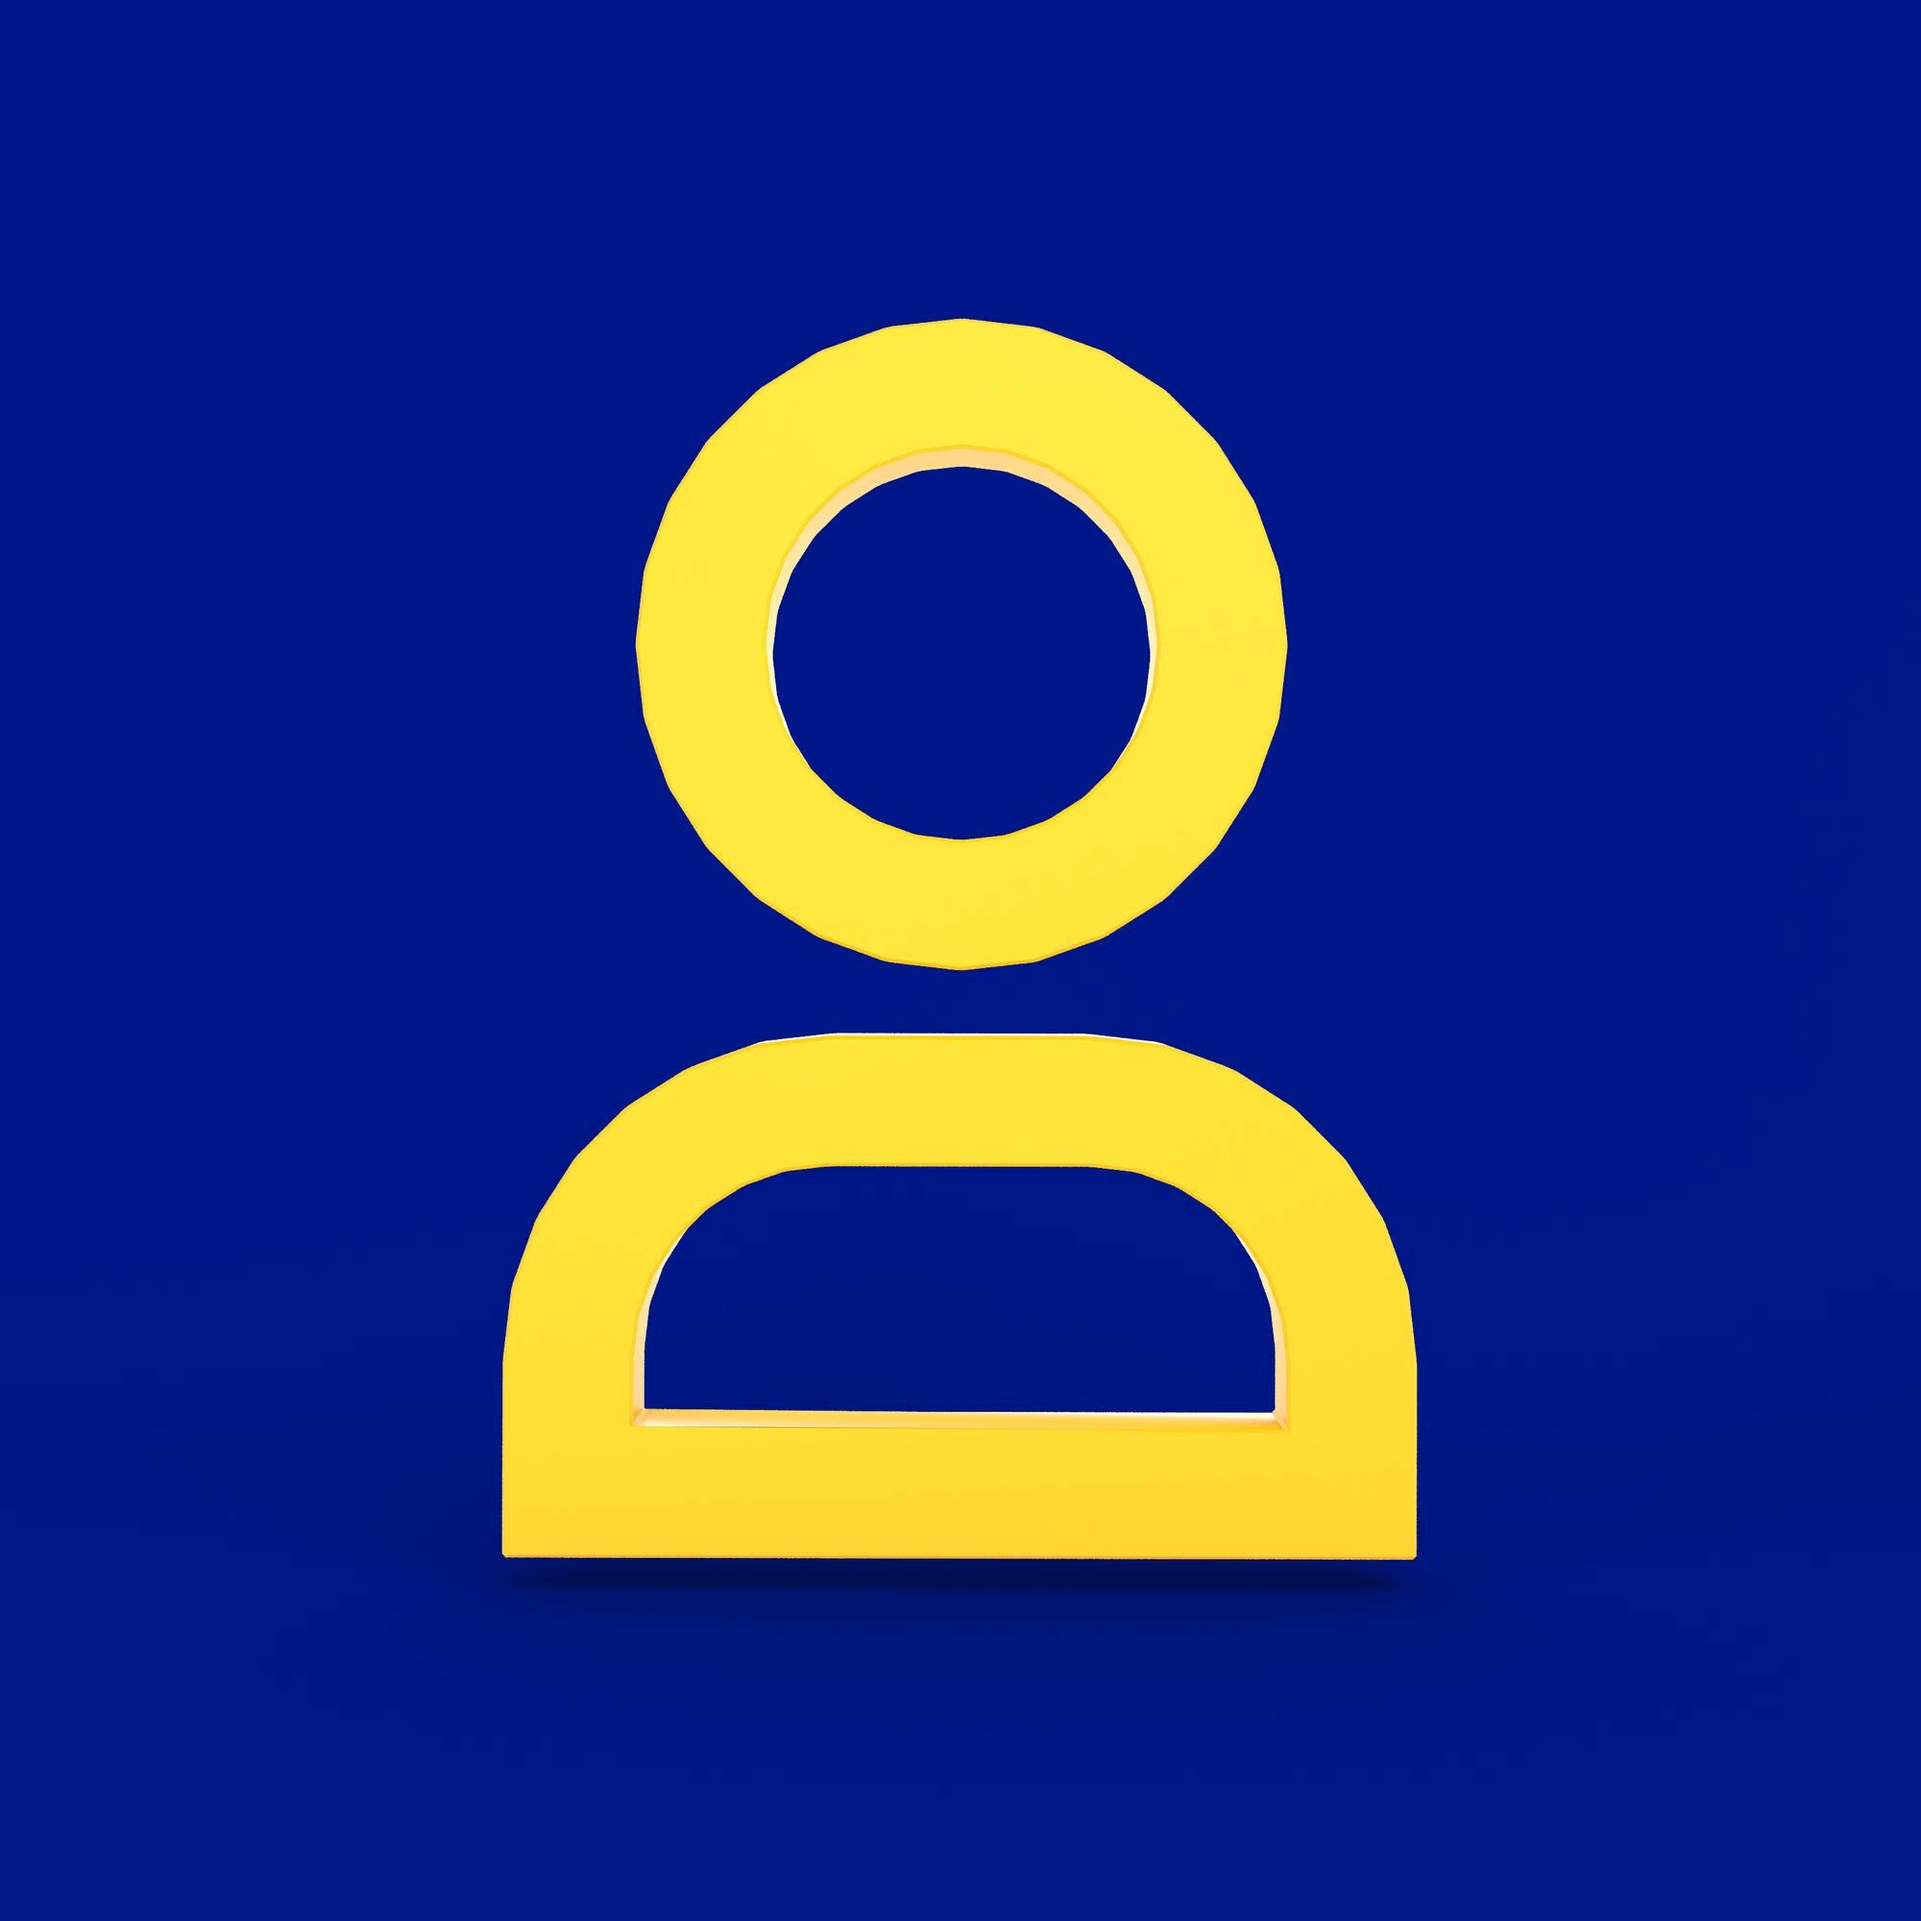
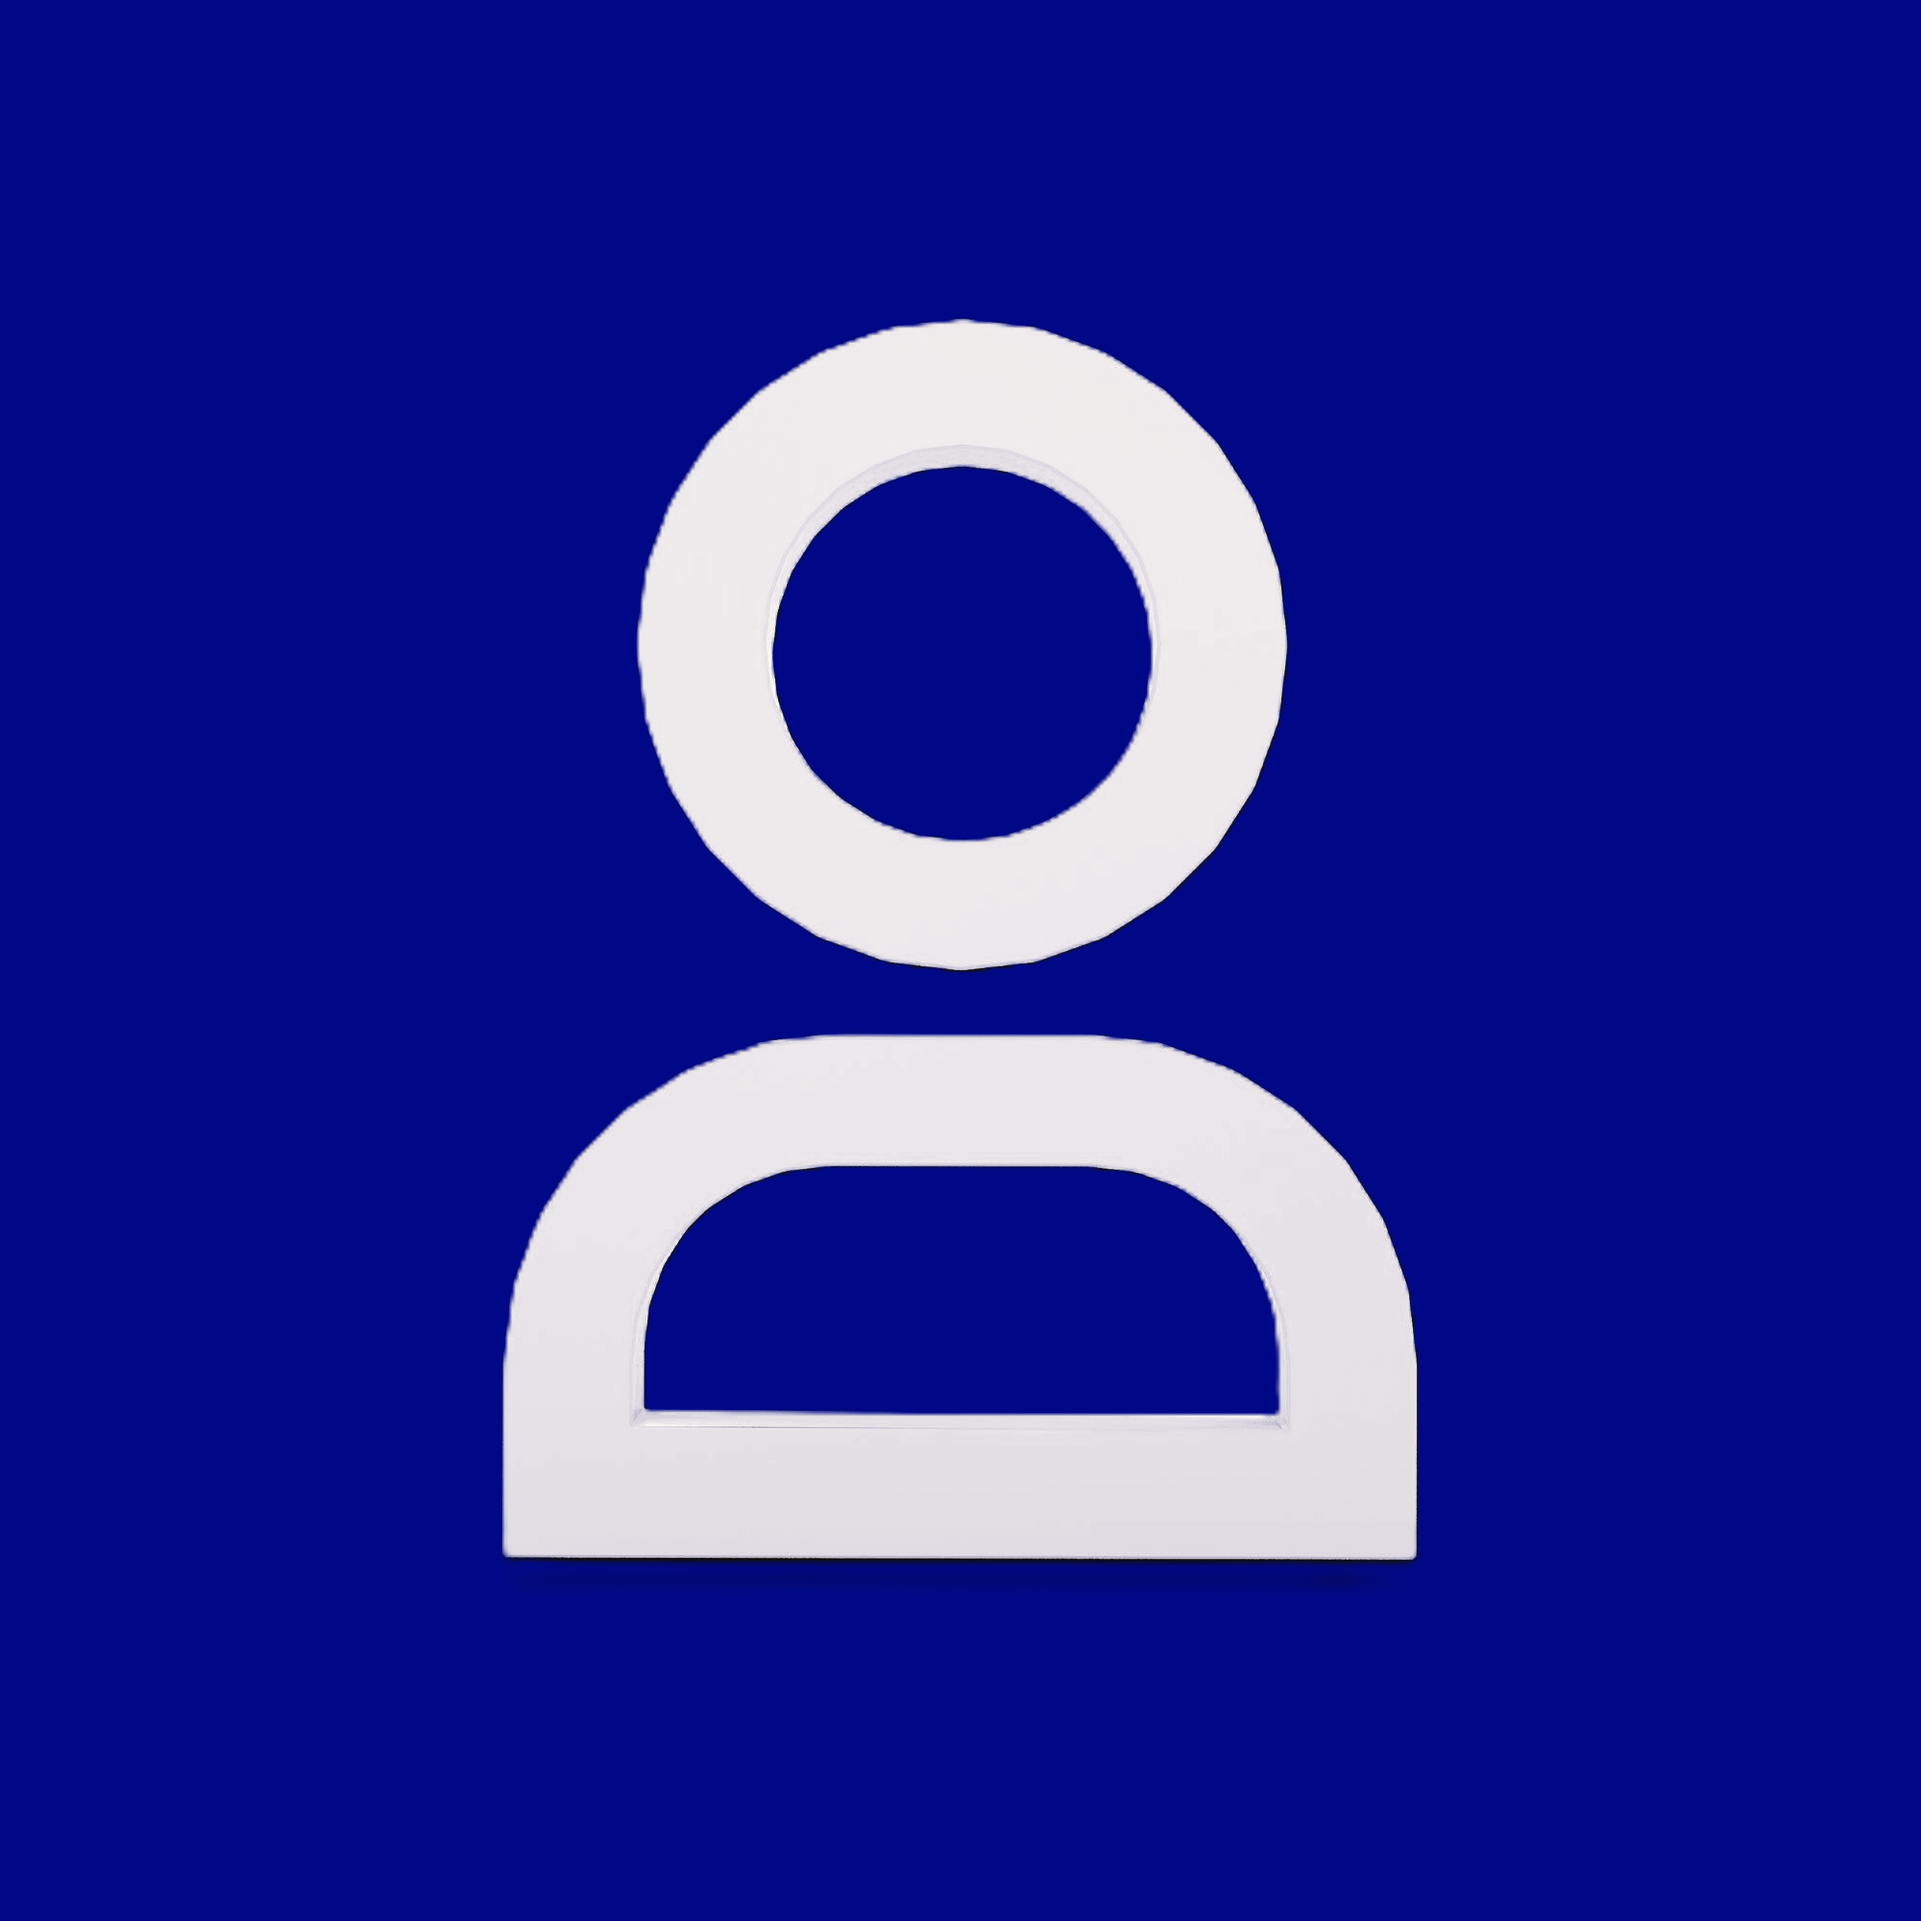
Added CSS styling and html for base html

Changed region(s): [[0.248, 0.155, 0.744, 0.837]]

diff --git a/my_app/templates/base.html b/my_app/templates/base.html
@@ -6,23 +6,25 @@
     <meta name="viewport" content="width=device-width, initial-scale=1.0">
     <title>{% block title %}Freedom Wheels{% endblock %}</title>
     <link href="https://cdn.jsdelivr.net/npm/bootstrap@5.3.3/dist/css/bootstrap.min.css" rel="stylesheet" integrity="sha384-QWTKZyjpPEjISv5WaRU9OFeRpok6YctnYmDr5pNlyT2bRjXh0JMhjY6hW+ALEwIH" crossorigin="anonymous">
+    <link href="https://fonts.googleapis.com/css2?family=Atkinson+Hyperlegible&display=swap" rel="stylesheet">
     <link rel="apple-touch-icon" sizes="180x180" href="{% static 'favicon/apple-touch-icon.png' %}">
     <link rel="icon" type="image/png" sizes="32x32" href="{% static 'favicon/favicon-32x32.png' %}">
     <link rel="icon" type="image/png" sizes="16x16" href="{% static 'favicon/favicon-16x16.png' %}">
+    <link rel="icon" type="image/x-icon" href="{% static 'favicon/favicon.ico' %}">
     <link rel="manifest" href="{% static 'favicon/site.webmanifest' %}">
+    <link rel="stylesheet" href="{% static 'css/styles.css' %}">
     {% block extra_head %}{% endblock %}
 </head>
 <body>
     <nav class="navbar navbar-expand-lg navbar-light bg-light">
-        <a class="navbar-brand" href="#">Freedom Wheels</a>
-        <button class="navbar-toggler" type="button" data-toggle="collapse" data-target="#navbarNavDropdown" aria-controls="navbarNavDropdown" aria-expanded="false" aria-label="Toggle navigation">
+        <a class="navbar-brand" href="#">
+            <img src="{% static 'freedom-wheels-high-resolution-logo(1).png' %}" alt="Freedom Wheels" class="navbar-logo">
+        </a>
+        <button class="navbar-toggler custom-toggler" type="button" data-toggle="collapse" data-target="#navbarNavDropdown" aria-controls="navbarNavDropdown" aria-expanded="false" aria-label="Toggle navigation">
             <span class="navbar-toggler-icon"></span>
         </button>
-        <div class="collapse navbar-collapse" id="navbarNavDropdown">
-            <ul class="navbar-nav ml-auto">
-                <li class="nav-item">
-                    <a class="nav-link" href="{% url 'loginregister' %}">Login/Register</a>
-                </li>
+        <div class="collapse navbar-collapse justify-content-end" id="navbarNavDropdown">
+            <ul class="navbar-nav">
                 <li class="nav-item dropdown">
                     <a class="nav-link dropdown-toggle" href="#" id="navbarDropdownMenuLink" role="button" data-toggle="dropdown" aria-haspopup="true" aria-expanded="false">
                         Menu
@@ -67,5 +69,6 @@
     <script src="https://code.jquery.com/jquery-3.5.1.slim.min.js"></script>
     <script src="https://cdn.jsdelivr.net/npm/@popperjs/core@2.5.4/dist/umd/popper.min.js"></script>
     <script src="https://cdn.jsdelivr.net/npm/bootstrap@5.3.3/dist/js/bootstrap.bundle.min.js" integrity="sha384-YvpcrYf0tY3lHB60NNkmXc5s9fDVZLESaAA55NDzOxhy9GkcIdslK1eN7N6jIeHz" crossorigin="anonymous"></script>
+    {% block extra_js %}{% endblock %}
 </body>
 </html>

diff --git a/static/css/styles.css b/static/css/styles.css
@@ -1,0 +1,52 @@
+body {
+    background-color: #000888;
+    color: #FFFFFF;
+    font-family: 'Atkinson Hyperlegible', sans-serif;
+}
+
+.navbar, .footer {
+    background-color: #000888 !important;
+    color: #FFFFFF !important;
+}
+
+.navbar a, .footer a {
+    color: #FFFFFF !important;
+}
+
+.navbar-logo {
+    max-height: 150px;
+    height: auto;
+    width: auto;
+    max-width: 600px; /* Ensure the image does not take up more than half the width of the screen */
+    padding-left: 5%; /* Add padding to the left */
+}
+
+.custom-toggler .navbar-toggler-icon {
+    width: 100px;
+    height: 100px;
+    background-image: url("../menu-button.png"); 
+    background-size: cover;
+    background-position: center;
+    background-repeat: no-repeat;
+    padding-right: 5%;
+}
+
+.form-control {
+    background-color: #FFFFFF;
+    color: #000000;
+}
+
+.btn-primary {
+    background-color: #FFFFFF;
+    border-color: #FFFFFF;
+    color: #000888;
+}
+
+.btn-primary:hover {
+    background-color: #FFEE00;
+    border-color: #FFEE00;
+    color: #000000;
+}
+
+/* Media Queries */
+

diff --git a/my_app/templates/profile.html b/my_app/templates/profile.html
@@ -1,9 +1,10 @@
 {% extends 'base.html' %}
+{% load static %}
 
 {% block title %}Profile{% endblock %}
 
 {% block content %}
-<h2>Profile</h2>
+<h2>Update Profile</h2>
 <form method="post" enctype="multipart/form-data">
     {% csrf_token %}
     {{ form.as_p }}

diff --git a/my_app/templates/signup.html b/my_app/templates/signup.html
@@ -1,4 +1,5 @@
 {% extends 'base.html' %}
+{% load static %}
 
 {% block title %}Sign Up{% endblock %}
 

diff --git a/my_app/forms.py b/my_app/forms.py
@@ -5,7 +5,7 @@ from .models import Profile
 from .models import Post
 
 class SignUpForm(UserCreationForm):
-    email = forms.EmailField(max_length=200, help_text='Required')
+    email = forms.EmailField(max_length=254, help_text='Required. Enter a valid email address.')
 
     class Meta:
         model = User

diff --git a/my_app/views.py b/my_app/views.py
@@ -47,6 +47,7 @@ def signup(request):
         form = SignUpForm()
     return render(request, 'signup.html', {'form': form})
 
+@login_required
 def profile(request):
     if request.method == 'POST':
         form = ProfileForm(request.POST, request.FILES, instance=request.user.profile)
